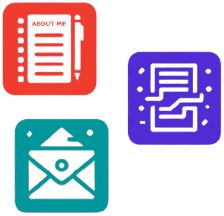
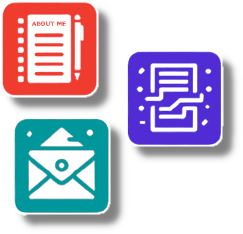
Updated visuals and aligned elements

diff --git a/index.html b/index.html
@@ -23,8 +23,8 @@
             <div class="nav-links">
                 <ul>
                     <li><a href="#about">About</a></li>
-                    <li><a href="#experience">Experience</a></li>
                     <li><a href="#education">Education</a></li>
+                    <li><a href="#experience">Experience</a></li>
                     <li><a href="#skills">Skills</a></li>
                     <li><a href="#projects">Projects</a></li>
                     <li><a href="#contact">Contact</a></li>
@@ -34,42 +34,42 @@
     </header>
     <main>
         <div class="row">
-            <div class="column">
+            <div class="column column-large">
                 <section id="about">
                     <h2>About Me</h2>
-                    <p>Hello, I am Yousef Gomaa. <br><br> I am a Computer Science and Information Technology (CSIT) student majoring in Artificial Intelligence and Data Science (AID) at the Egypt-Japan University of Science and Technology (E-JUST) located in New Borg El Arab city in Alexandria Governorate, Egypt. <br>
-                         <br> My expertise spans data engineering, neural networks, and educational techniques.
+                    <p>Hello, I am Yousef Gomaa. <br><br> I am a Computer Science and Information Technology (CSIT) student majoring in Artificial Intelligence and Data Science (AID) at the Egypt-Japan University of Science and Technology (E-JUST), located in New Borg El Arab city in Alexandria Governorate, Egypt. <br>
+                        <br> My expertise spans data engineering, neural networks, and educational techniques.
                 </section>
             </div>
-            <div class="column">
-                <img src="imgs/aboutme.png" alt="About Me Icons" style="width:50%">
+            <div class="column column-small">
+                <img src="imgs/aboutme.png" alt="About Me Icons" style="width:100%">
             </div>
         </div>
         <div class="row">
-            <div class="column">
-                <img src="imgs/education.png" alt="Education Icons" style="width:50%">
+            <div class="column column-small">
+                <img src="imgs/education.png" alt="Education Icons" style="width:100%">
             </div>
-            <div class="column">
+            <div class="column column-large">
                 <section id="education">
                     <h2>Education</h2>
-                    <p> As of yet, a CSIT AID senior student at Egypt-Japan University of Science and Technology <br>
+                    <p> As of yet, a CSIT AID senior student at Egypt-Japan University of Science and Technology. <br><br>
                         In addition, I am/was an exchange student at Hiroshima University during the Fall 2024 semester. <br>
                     </p>
                 </section>
             </div>
         </div>
         <div class="row">
-            <div class="column">
+            <div class="column column-large">
                 <section id="experience">
                     <h2>Experience</h2>
                     <p>My academic background, complemented by practical experience in many diverse projects,
-                         has equipped me with strong problem-solving abilities at the intersection of advanced technology and real-world application.
+                        has equipped me with strong problem-solving abilities at the intersection of advanced technology and real-world application.
                         <br><br>Furthermore, I have taken part in specialized training programs, such as the Digital Egypt Pioneers Initiative and NTI’s Machine Learning for Data Analysis course.
                         I’m actively seeking opportunities where I can contribute to impactful projects, especially those at the intersection of AI and neurotechnology. <br> </p>
                 </section>
             </div>
-            <div class="column">
-                <img src="imgs/experience.png" alt="Experience Icons" style="width:50%">
+            <div class="column column-small">
+                <img src="imgs/experience.png" alt="Experience Icons" style="width:100%">
             </div>
         </div>
         <section id="skills">

diff --git a/styles/style.css b/styles/style.css
@@ -15,29 +15,38 @@
 }
 
 .column {
-  float: left;
-  width: 33.33%;
-  padding: 5px;
+    max-width: 800px;
 }
 
-/* Clearfix (clear floats) */
-.row::after {
-  content: "";
-  clear: both;
-  margin: auto;
-  padding: 5px;
-  width: 50%;
-  display: flex;
-  align-items: center;
+.column-large {
+    flex: 2;
+}
+
+.column-small {
+    flex: 1;
+}
+
+.column img {
+    max-width: 100%;
+    height: auto;
+    display: block; 
+    margin: 0 auto; 
+}
+
+.row {
+    max-width: 1000px;
+    display: flex;
+    justify-content: center;
+    align-items: center;
+    flex-wrap: wrap;
+    margin: 0 auto;
 }
 
 nav-links{
-    position: absolute;
-    top: 50%;
-    left: 50%;
-    transform: translate(-50%, -50%);
+    margin-left: auto;
     display: flex;
     justify-content: space-between;
+    gap: 20px;
     width: 400px;
     height: 80px;
 }
@@ -45,19 +54,21 @@ nav-links{
 nav {
     background-color: var(--color-quaternary);
     display: flex;
-    justify-content: space-between;
+    justify-content: flex-end;
     align-items: center;
     padding: 10px 20px;
+    width: 100%;
 }
 
 nav h1 {
     margin: 0;
     color: var(--color-primary);
+    margin-right: auto;
 }
 
 nav ul {
     list-style-type: none;
-    margin: 0;
+    margin-left: 0 auto;
     padding: 0;
     display: flex;
 }
@@ -83,7 +94,7 @@ nav ul li:hover {
 
 #about {
     width: 60%;
-    margin: 50px auto; 
+    margin: 30px auto; 
     padding: 20px;
     background-color: var(--color-quinary);
     border: 2px solid var(--color-secondary);
@@ -101,7 +112,7 @@ nav ul li:hover {
 
 #education {
     width: 50%;
-    margin: 50px auto; 
+    margin: 30px auto; 
     padding: 20px;
     background-color: var(--color-quinary);
     border: 2px solid var(--color-secondary);
@@ -119,7 +130,7 @@ nav ul li:hover {
 
 #experience {
     width: 70%;
-    margin: 50px auto; 
+    margin: 30px auto; 
     padding: 20px;
     background-color: var(--color-quinary);
     border: 2px solid var(--color-secondary);
@@ -187,19 +198,51 @@ nav ul li:hover {
 }
 
 .GitHub{
-    height: 50px;
-    width: 350px;
-    font-size: 27px;
+    height: auto;
+    width: 80%;
+    max-width: 350px;
+    font-size: 2vw;
     font-family: inherit;
     color: var(--color-primary);
     background-color: var(--color-tertiary);
     border: 2px solid var(--color-tertiary);
     border-radius: 10px;
+    margin: 0 auto;
+    padding: 10px;
+    display: block;
+    text-align: center;
 }
 
 .GitHub:hover{
     background-color: var(--color-down);
     border: 2px solid var(--color-primary);
+}
+
+.skills-content img {
+    width: 80%;
+    max-width: 100%;
+    height: auto;
+    margin: 0 auto;
+    display: block;
+}
+
+@media (max-width: 768px) {
+    .GitHub {
+        font-size: 4vw;
+        width: 90%;
+    }
+    .skills-content img {
+        width: 90%;
+    }
+}
+
+@media (min-width: 1200px) {
+    .GitHub {
+        font-size: 1.5vw;
+    }
+    .skills-content img {
+        width: 70%;
+    }
 }
 
 .contact-content {
